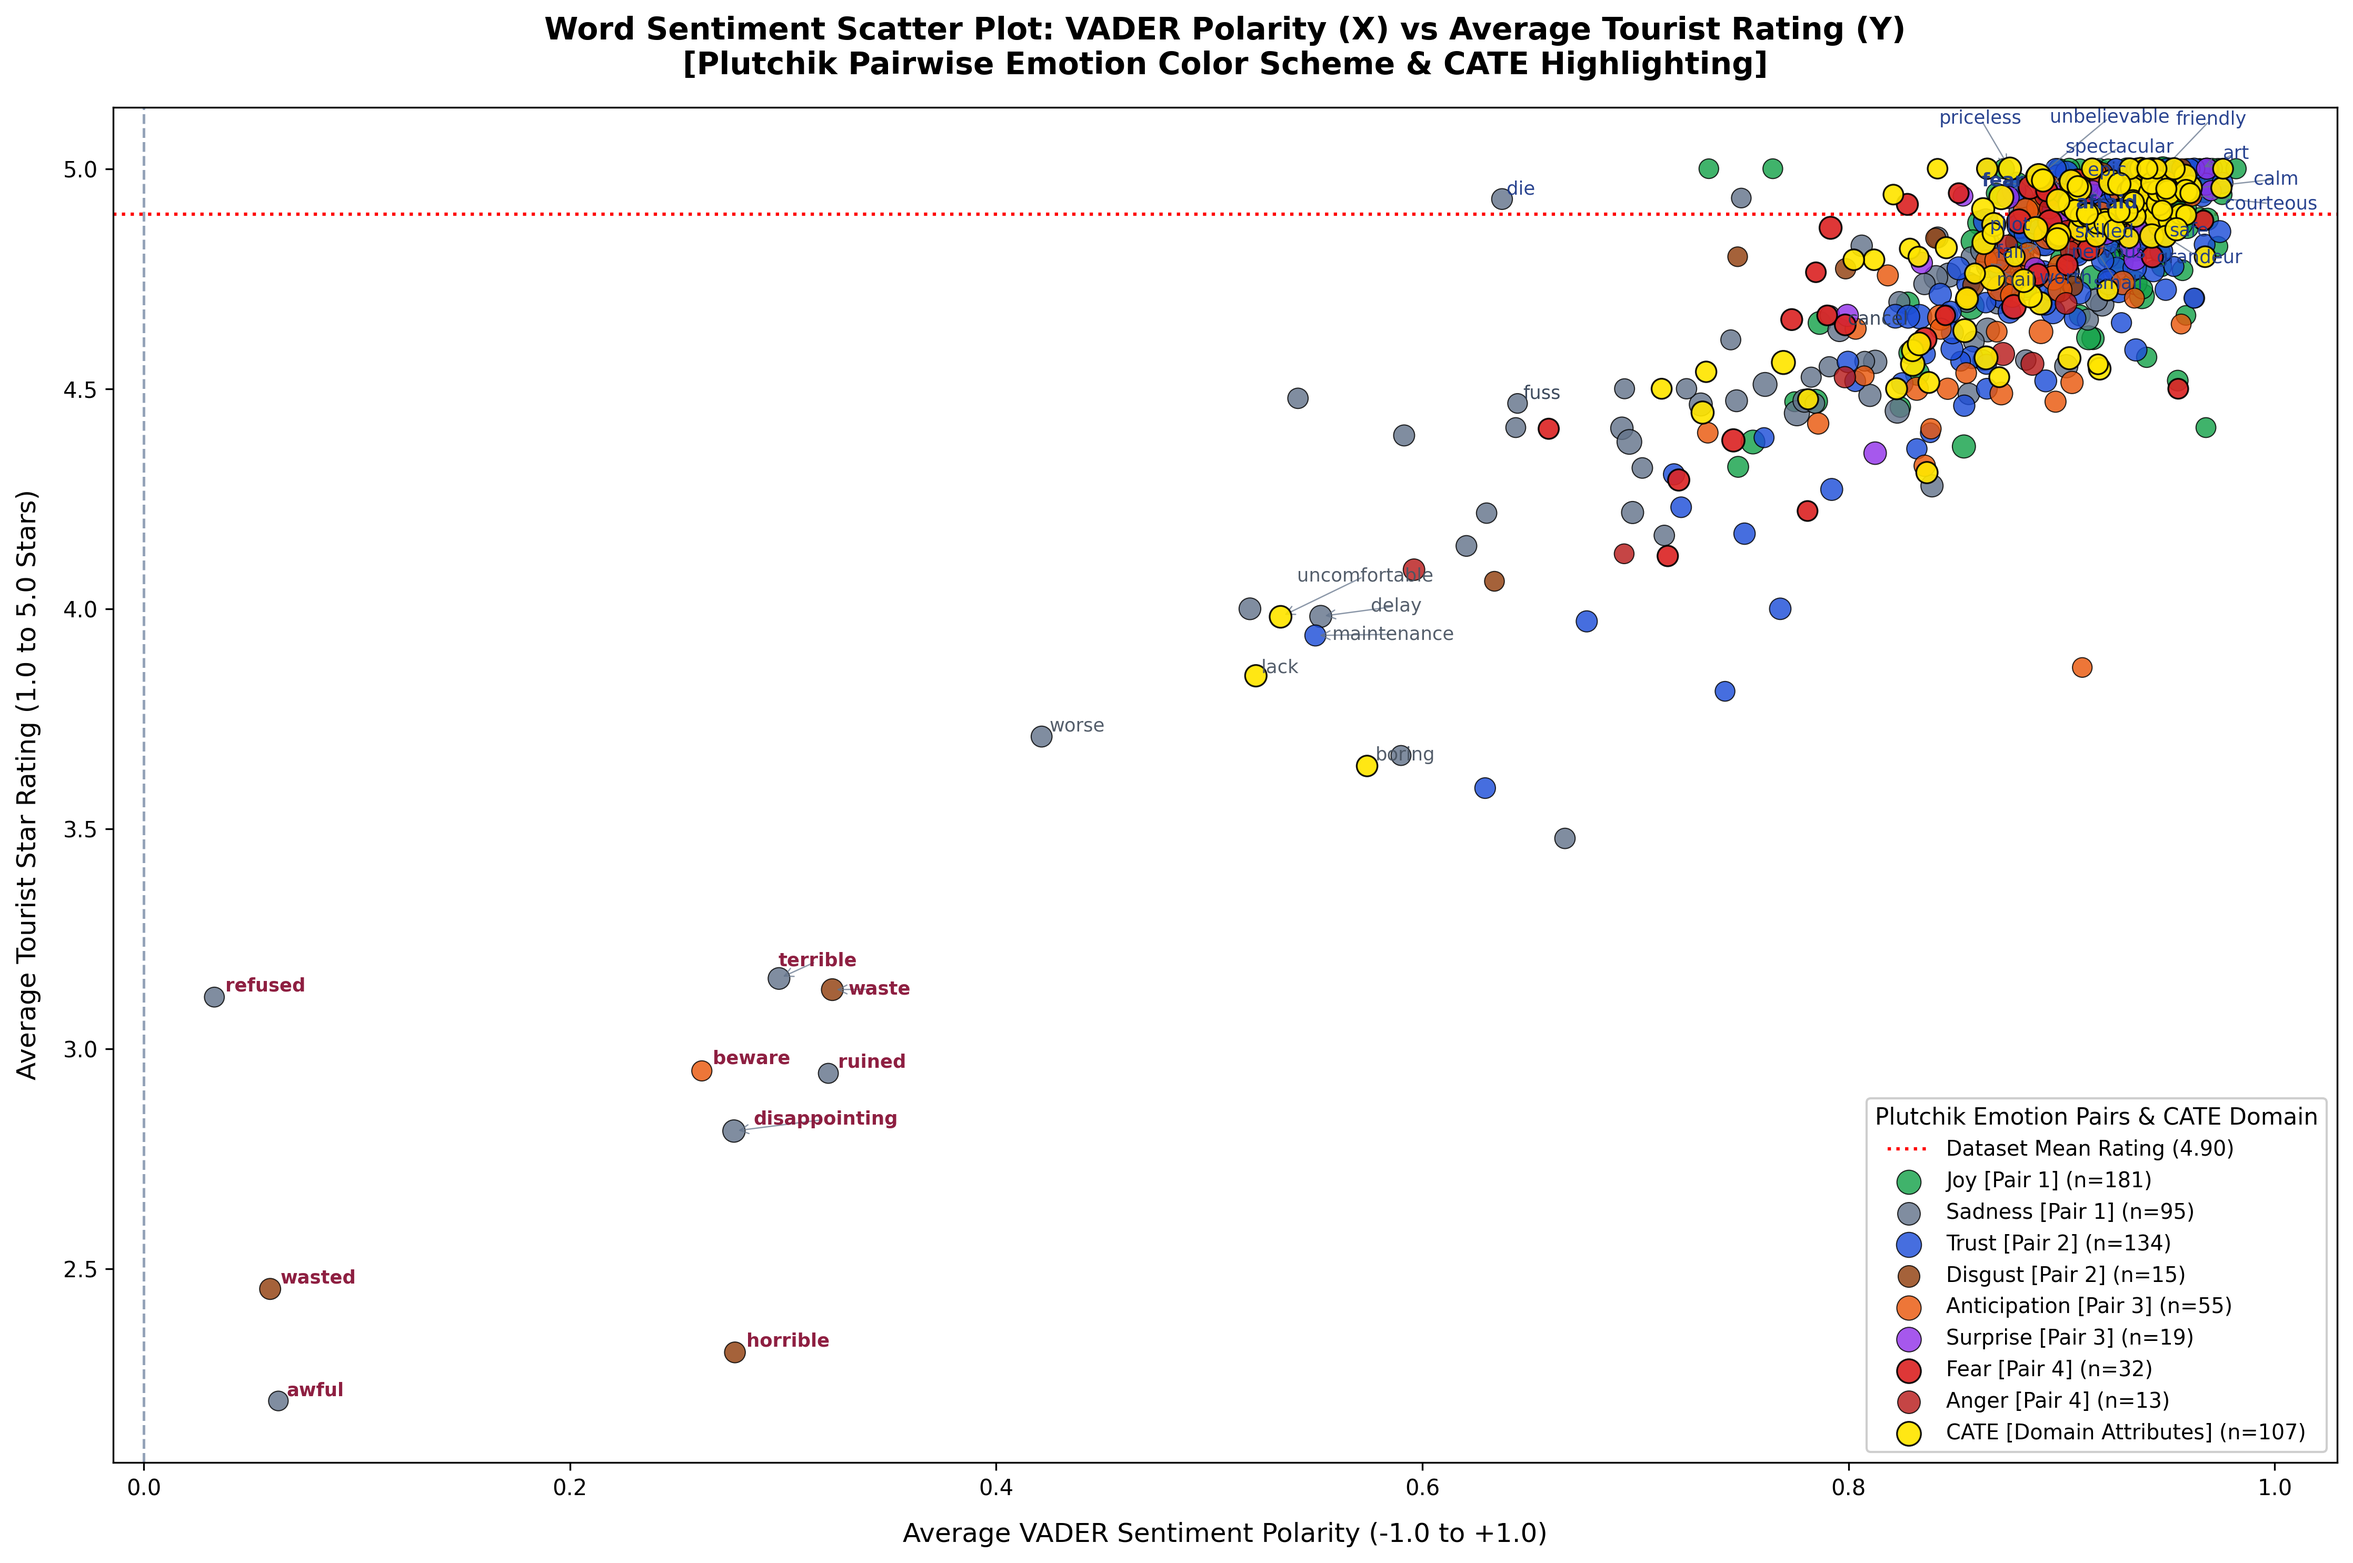
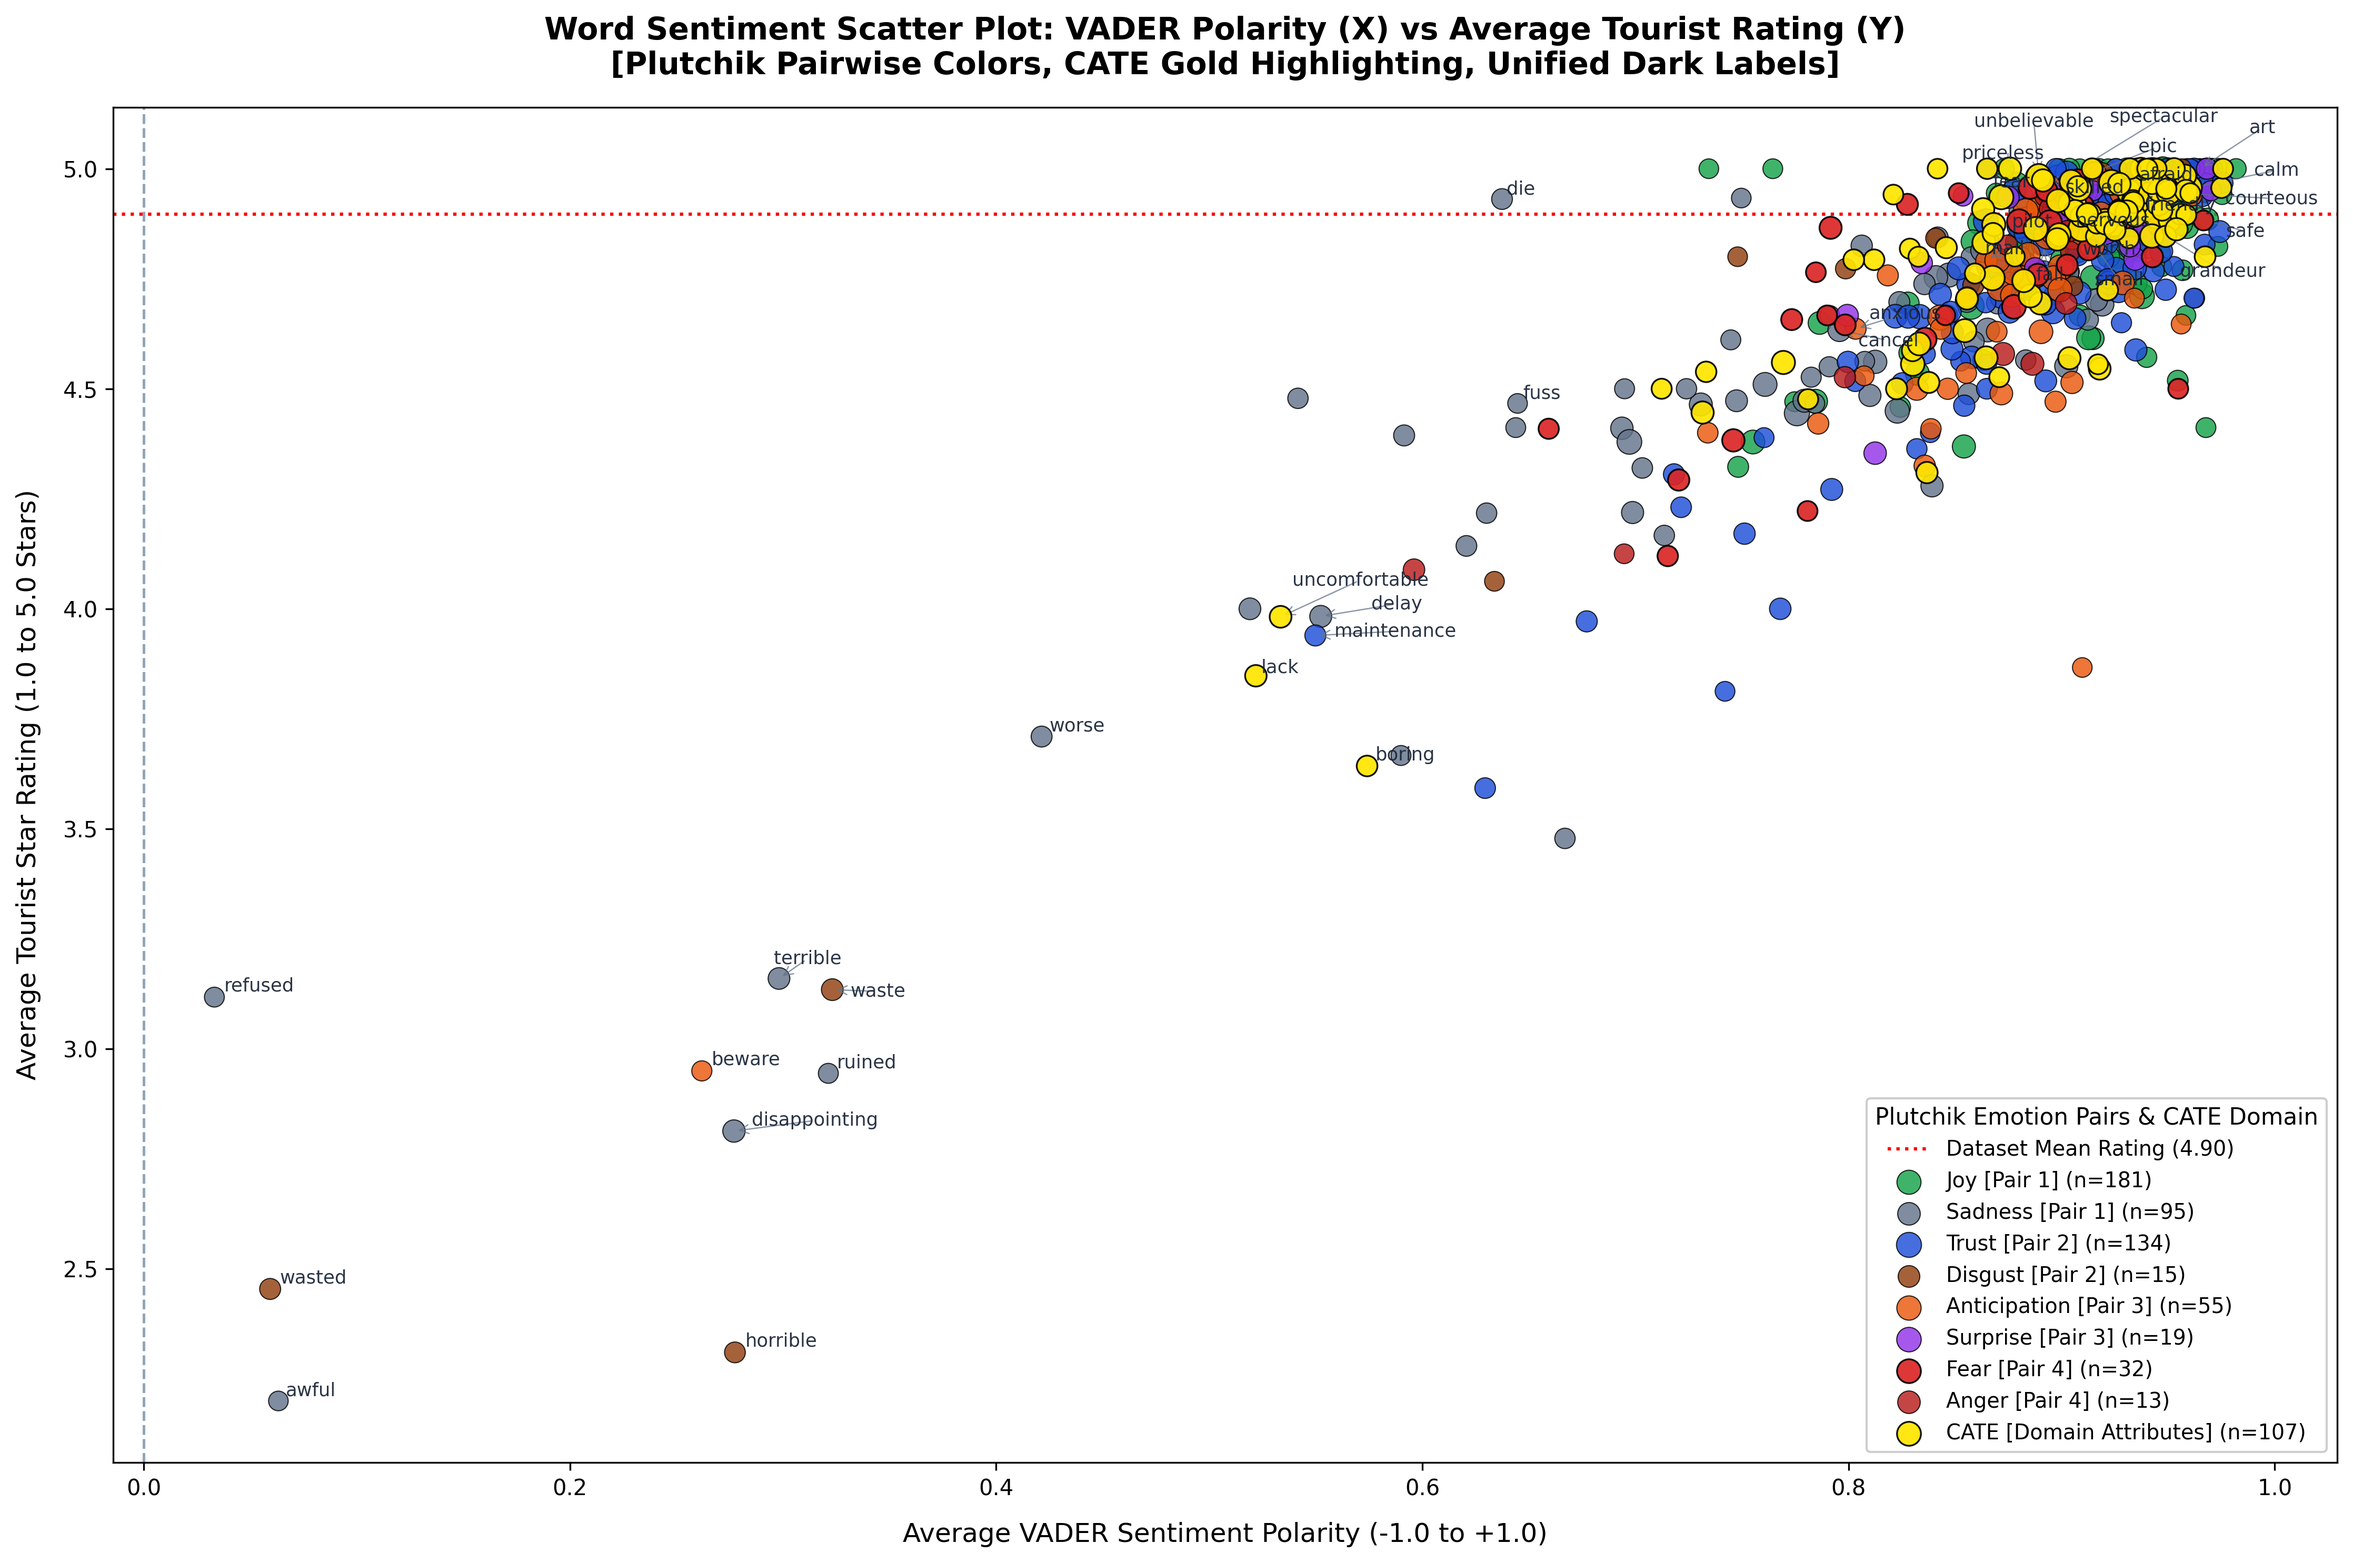
feat(ai): strictly enforce dark black labels and CATE at legend end

diff --git a/generate_nrc_exact_reference_plot.py b/generate_nrc_exact_reference_plot.py
@@ -22,7 +22,6 @@ df_raw = pd.read_csv(master_path)
 df = df_raw[df_raw['is_english'] == 1].copy()
 print(f"Total Master Reviews: {len(df_raw)} | Filtered Pure English Reviews: {len(df)}")
 
-
 # Load 107 CATE words
 cate_words_set = set()
 if os.path.exists(cate_path):
@@ -53,8 +52,8 @@ PLUTCHIK_COLORS = {
     'FEAR': '#DC2626',         # Crimson Red (Fear/Thrill)
     'ANGER': '#B91C1C',        # Dark Blood Red (Anger)
     
-    # CATE: Low-Altitude Specific Domain Attributes
-    'CATE': '#FFE500'          # Brightest Electric Gold (Domain Priority)
+    # CATE: Low-Altitude Specific Domain Attributes (Brightest Gold Yellow)
+    'CATE': '#FFE500'          
 }
 
 def map_word_to_nrc_or_cate(word):
@@ -104,7 +103,7 @@ words_df = pd.DataFrame(records)
 dataset_mean_rating = df['rating'].mean()
 
 # -------------------------------------------------------------
-# Generate Publication Scatter Plot with English Plutchik Pairwise Order
+# Generate Publication Scatter Plot with Plutchik Pairwise Order & CATE at the end
 # -------------------------------------------------------------
 plt.style.use('seaborn-v0_8-whitegrid' if 'seaborn-v0_8-whitegrid' in plt.style.available else 'default')
 fig, ax = plt.subplots(figsize=(15.0, 10.0), dpi=300)
@@ -118,7 +117,7 @@ plutchik_legend_order = [
     ('SURPRISE', 'Surprise [Pair 3]'),
     ('FEAR', 'Fear [Pair 4]'),
     ('ANGER', 'Anger [Pair 4]'),
-    ('CATE', 'CATE [Domain Attributes]')
+    ('CATE', 'CATE [Domain Attributes]')  # CATE is strictly placed at the very end
 ]
 
 for cat_code, cat_label in plutchik_legend_order:
@@ -142,38 +141,26 @@ for cat_code, cat_label in plutchik_legend_order:
 ax.axhline(dataset_mean_rating, color='red', linestyle=':', linewidth=1.5, zorder=2, label=f'Dataset Mean Rating ({dataset_mean_rating:.2f})')
 ax.axvline(0.0, color='#94A3B8', linestyle='--', linewidth=1.2, zorder=2)
 
+# Words to annotate in non-crowded areas (Left, Middle, Friction points, Key Emotion Shift terms)
 curated_annotate_words = {
-    'war', 'dank', 'gut', 'die', 'sin', 'dire', 'genial', 'art', 
-    'voyage', 'airs', 'mail', 'fuss', 'worse', 'fall',
+    'die', 'fuss', 'mail', 'voyage', 'airs', 'genial', 'art', 'fall',
     'horrible', 'terrible', 'wasted', 'awful', 'disappointing', 'ruined', 'beware', 'waste', 'refused',
-    'uncomfortable', 'delay', 'cancel', 'maintenance', 'lack', 'boring',
-    'nervous', 'scared', 'fear', 'afraid',
+    'uncomfortable', 'delay', 'cancel', 'maintenance', 'lack', 'boring', 'worse',
+    'nervous', 'scared', 'fear', 'afraid', 'anxious', 'terrified',
     'pilot', 'captain', 'worth', 'small', 'friendly', 'courteous', 'skilled', 
     'spectacular', 'unbelievable', 'breathtaking', 'epic', 'grandeur', 'priceless', 'safe', 'calm'
 }
 
-def get_label_color_brightness(rating, polarity, category):
-    if rating >= 4.8:
-        return '#1E3A8A'
-    elif rating >= 4.2:
-        return '#334155'
-    elif rating >= 3.5:
-        return '#4B5563'
-    else:
-        return '#881337'
-
+# RULE COMPLIANCE: ALL WORD LABELS ARE STRICTLY UNIFIED DARK BLACK (#1E293B), REGULAR WEIGHT (normal), 8.5pt
 texts = []
 for idx, row in words_df.iterrows():
     w = row['word']
     if w in curated_annotate_words:
         x = row['mean_polarity']
         y = row['mean_rating']
-        cat = row['category']
         
-        txt_color = get_label_color_brightness(y, x, cat)
-        fw = 'bold' if y < 3.5 or x < -0.2 or cat == 'FEAR' else 'normal'
-        
-        txt = ax.text(x, y, w, fontsize=8.5, fontweight=fw, color=txt_color, alpha=0.95, zorder=5)
+        # Pure dark slate black (#1E293B), normal weight for ALL labels
+        txt = ax.text(x, y, w, fontsize=8.5, fontweight='normal', color='#1E293B', alpha=0.95, zorder=5)
         texts.append(txt)
 
 adjust_text(
@@ -185,10 +172,11 @@ adjust_text(
     force_points=(0.6, 0.9)
 )
 
-ax.set_title('Word Sentiment Scatter Plot: VADER Polarity (X) vs Average Tourist Rating (Y)\n[Plutchik Pairwise Emotion Color Scheme & CATE Highlighting]', fontsize=14, fontweight='bold', pad=15)
+ax.set_title('Word Sentiment Scatter Plot: VADER Polarity (X) vs Average Tourist Rating (Y)\n[Plutchik Pairwise Colors, CATE Gold Highlighting, Unified Dark Labels]', fontsize=14, fontweight='bold', pad=15)
 ax.set_xlabel('Average VADER Sentiment Polarity (-1.0 to +1.0)', fontsize=12, labelpad=10)
 ax.set_ylabel('Average Tourist Star Rating (1.0 to 5.0 Stars)', fontsize=12, labelpad=10)
 
+# CATE at the end of the legend
 ax.legend(title='Plutchik Emotion Pairs & CATE Domain', fontsize=9.5, title_fontsize=10.5, loc='lower right', frameon=True, facecolor='white', framealpha=0.95)
 
 plt.tight_layout()
@@ -199,4 +187,4 @@ plt.savefig(out_fig, dpi=300, bbox_inches='tight')
 plt.savefig('figures/word_sentiment_scatter_exact_match.png', dpi=300, bbox_inches='tight')
 plt.close()
 
-print(f"Saved Plutchik-aligned scatter plot to {out_fig}")
+print(f"Saved Plutchik-aligned scatter plot with strictly unified dark labels to {out_fig}")
